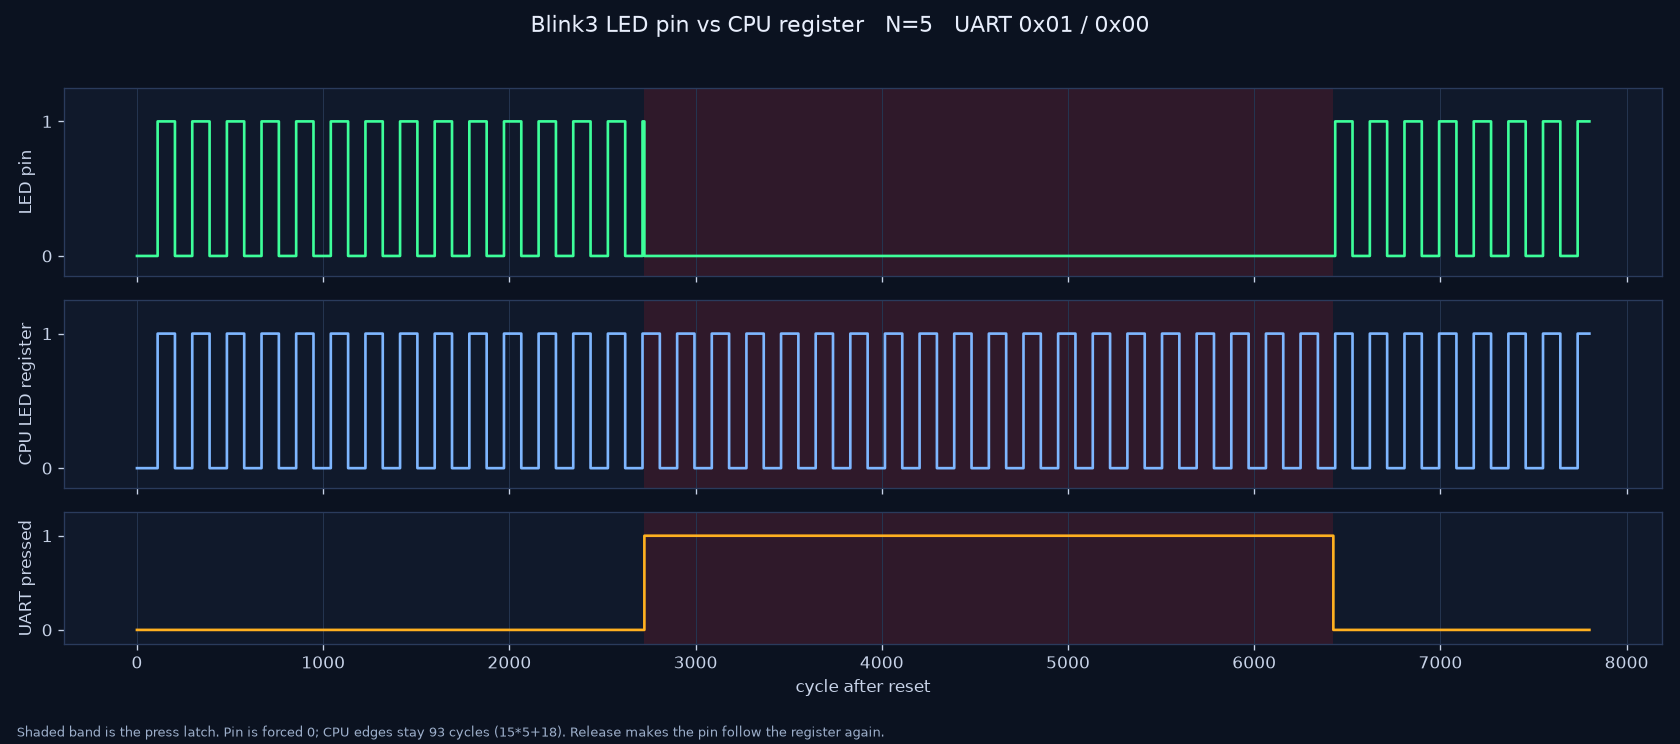
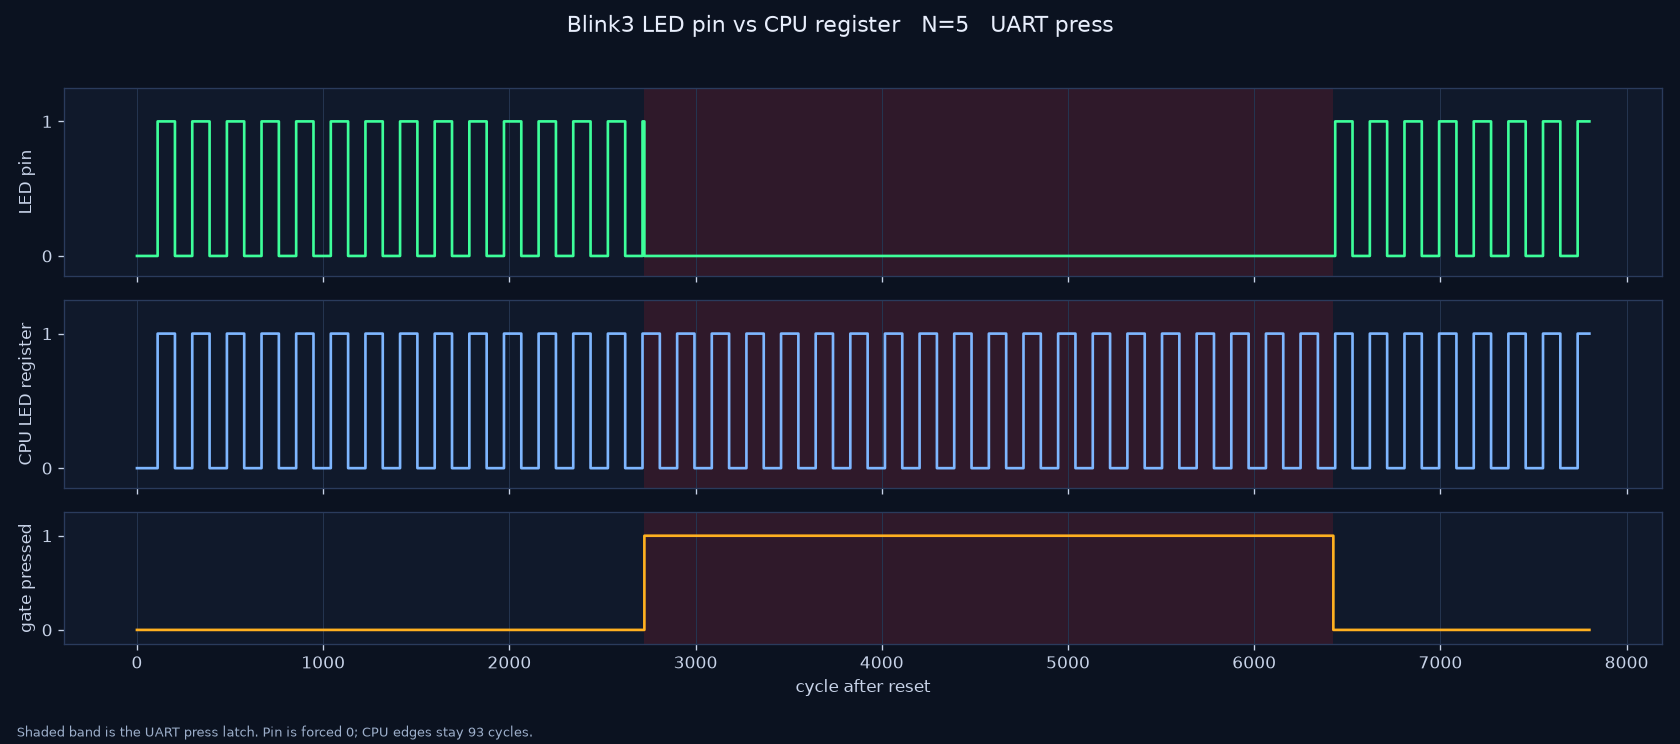
Gate the Nano 4K LED from button S1 as well as a UART press.
S1 is schematic pin 14, active-low. The pin is forced off while it is held
or a press byte is latched, and the CPU keeps running. Verilator covers the
button. The 4K image was SRAM-loaded; the camera was not aimed at the boards.

Changed region(s): [[0.3095, 0.0, 0.681, 0.0618], [0.0929, 0.9583, 0.5262, 1.0], [0.0, 0.711, 0.031, 0.8656]]

diff --git a/sim/tb_blink2.cpp b/sim/tb_blink2.cpp
@@ -54,6 +54,9 @@ struct Options {
   // Press byte is 0x01, release byte is 0x00. Bit time is 27 MHz/115200.
   int uart_press_at = -1;
   int uart_release_at = -1;
+  // Active-low button. -1 = leave released. Down is inclusive, up is exclusive.
+  int btn_down_at = -1;
+  int btn_up_at = -1;
 };
 
 static void usage(const char* argv0) {
@@ -68,7 +71,9 @@ static void usage(const char* argv0) {
           "  --led PATH       LED toggle CSV output\n"
           "  --wave PATH      Per-cycle LED CSV (default sim/out/led_wave.csv)\n"
           "  --uart-press N   At cycle N, send 0x01 (press, force LED pin off)\n"
-          "  --uart-release N At cycle N, send 0x00 (release, pin follows CPU)\n",
+          "  --uart-release N At cycle N, send 0x00 (release, pin follows CPU)\n"
+          "  --btn-down N     Hold the active-low button from cycle N\n"
+          "  --btn-up N       Release the button at cycle N\n",
           argv0);
 }
 
@@ -92,6 +97,8 @@ static Options parse_args(int argc, char** argv) {
     else if (!strcmp(argv[i], "--wave")) o.wave_csv_path = need("--wave");
     else if (!strcmp(argv[i], "--uart-press")) o.uart_press_at = atoi(need("--uart-press"));
     else if (!strcmp(argv[i], "--uart-release")) o.uart_release_at = atoi(need("--uart-release"));
+    else if (!strcmp(argv[i], "--btn-down")) o.btn_down_at = atoi(need("--btn-down"));
+    else if (!strcmp(argv[i], "--btn-up")) o.btn_up_at = atoi(need("--btn-up"));
     else if (!strcmp(argv[i], "-h") || !strcmp(argv[i], "--help")) {
       usage(argv[0]);
       exit(0);
@@ -157,6 +164,7 @@ int main(int argc, char** argv) {
   // Idle-high UART. A stuck-low RX looks like a break to UartRx.
   UartDrive uart;
   top->io_uart_rx = 1;
+  top->io_btn_n = 1;
 
   // Active-high synchronous reset (Chisel default).
   top->reset = 1;
@@ -192,6 +200,13 @@ int main(int argc, char** argv) {
       printf("[UART] cycle=%d send 0x00 (release)\n", cycle);
       uart.start(0x00);
     }
+    const bool btn_held = opt.btn_down_at >= 0 && cycle >= opt.btn_down_at &&
+                          (opt.btn_up_at < 0 || cycle < opt.btn_up_at);
+    top->io_btn_n = btn_held ? 0 : 1;
+    if (opt.btn_down_at >= 0 && cycle == opt.btn_down_at)
+      printf("[BTN] cycle=%d down (active-low)\n", cycle);
+    if (opt.btn_up_at >= 0 && cycle == opt.btn_up_at)
+      printf("[BTN] cycle=%d up\n", cycle);
     uart.on_cycle(top);
     tick();
 

diff --git a/sim/plot_uart_gate.py b/sim/plot_uart_gate.py
@@ -62,7 +62,7 @@ def main() -> int:
     series = (
         (axes[0], pin, "LED pin", "#3dff9a"),
         (axes[1], cpu, "CPU LED register", "#7eb6ff"),
-        (axes[2], pressed, "UART pressed", "#ffb020"),
+        (axes[2], pressed, "gate pressed", "#ffb020"),
     )
     for ax, ys, name, color in series:
         ax.set_facecolor("#10192b")

diff --git a/docs/uart-led-gate/README.md b/docs/uart-led-gate/README.md
@@ -1,12 +1,35 @@
-# UART press gates the Blink3 LED
+# Button or UART press gates the Blink3 LED
 
 The gate sits in the SoC, after the CPU's LED register (`UartLedGate` in
-`CPUMinimalWrapper` and in the Verilator top). A latched press forces the
-pin off. The core keeps fetching, and `ledState` keeps toggling, so a release
-shows the phase the register is already in.
+`CPUMinimalWrapper` and in the Verilator top). While the gate is pressed the
+pin is forced off. The core keeps fetching, and `ledState` keeps toggling, so
+a release shows the phase the register is already in.
 
-This run is Verilator plus synthesis. Neither board was loaded, and no
-serial device was opened.
+Pressed means the Tang Nano 4K button is held **or** a UART press byte is
+latched. Either one is enough. The Primer 20K top ties the button high
+(released) and still uses the UART pins.
+
+## Tang Nano 4K button
+
+Sipeed schematic `Tang_Nano_4K_3603`
+([PDF](https://dl.sipeed.com/fileList/TANG/Nano%204K/HDK/02_Schematic/Tang_Nano_4K_3603_Schematic_.pdf)):
+
+| switch | net | package pin | bank |
+|---|---|---|---|
+| S1 | KEY1 | **14** (`IOB4B`) | VCCO3, 1.8 V |
+| S2 | KEY2 | 15 (`IOB5A`) | VCCO3, 1.8 V |
+
+S1 is the gate. R31 is 100 kΩ from KEY1 up to `DCDC3_1V8`, the switch goes to
+ground, and C52 is 100 nF to ground. Held means low. `tang-nano-4k.cst`
+places `io_btn_n` on pin 14 as LVCMOS18 with pull-up. Two flops synchronise
+it. The pin report for the N=262144 image lists `io_btn_n` at `14/3`,
+`IOB4[B]`, LVCMOS18, pull-up, 1.8 V.
+
+S2 stays the reset input on pin 15 (pull-down, active-high into the CPU).
+Pressing it shorts an already-low net to ground, so it does not gate the LED
+and it does not reset the CPU while that pull-down is on.
+
+![S1 and S2, both active-low to 1.8 V](hardware/tang-nano-4k-buttons.png)
 
 ## Protocol
 
@@ -39,8 +62,23 @@ not loaded.
 ## Verilator, N=5
 
 `tools/run_uart_led_gate.sh` uses maxIterations = 5 so an edge is
-`15*5+18 = 93` cycles and a 2340-cycle UART frame is easy to see. The FPGA
-image is still N=262144.
+`15*5+18 = 93` cycles. The FPGA image is still N=262144. The same script
+runs the UART frame and a button hold. Both checks print `match=yes`.
+
+### Button
+
+S1 is driven low from cycle 400 through 1999 (the testbench flag is
+`--btn-up 2000`, exclusive). The synchroniser raises `pressed` at cycle
+**401** and drops it at cycle **2001**. All 28 CPU edge gaps are 93 cycles,
+including the 17 edges while the pin is forced off. At the release the CPU
+register is already 1, and the pin comes back high on that same cycle, then
+both fall together at 2064.
+
+![Pin forced off while S1 is held; the CPU register keeps blinking](btn_gate_n5.png)
+
+### UART
+
+The button stays released for this run.
 
 Press frame starts at cycle 500 and the latch sets at cycle **2725**, while
 the CPU register is still 1 (it rose at 2715 and would have stayed 1 until
@@ -73,27 +111,27 @@ PORT=8768 tools/run_visualizer.sh
 
 ![Visualizer after release: pin follows the CPU LED](uart_vis_released.png)
 
-## Synthesis
+## Synthesis and the 4K SRAM load
 
-Both builds finished syn+PNR and wrote an SRAM-loadable `.fs`. Nothing was
-programmed.
+The Nano 4K image was rebuilt with the button port and SRAM-loaded. The
+Primer 20K was not rebuilt and not programmed.
 
-| board | part | UART pins from the pin report | bitstream |
+| board | part | pins in the pin report | bitstream |
 |---|---|---|---|
-| Tang Nano 4K | GW1NSR-4C | RX pin 18 (`IOB13[A]`), TX pin 19 (`IOB13[B]`), LED pin 10 | `gowin/impl/pnr/blink3_n262144.fs` |
-| Primer 20K Dock | GW2A-18C | RX **T13**, TX **M11**, both LVCMOS33 | `gowin/primer20k/impl/pnr/blink3_n262144.fs` |
+| Tang Nano 4K | GW1NSR-4C | button pin 14 (`IOB4[B]`, LVCMOS18, pull-up), reset pin 15, LED pin 10, UART RX/TX still 18/19 | `gowin/impl/pnr/blink3_n262144.fs` |
+| Primer 20K Dock | GW2A-18C | previous build: RX **T13**, TX **M11**. Button tied high in the top, not a new bitstream | not reloaded |
 
 ```sh
 tools/gowin_build.sh
-BOARD=primer20k tools/gowin_build.sh
+openFPGALoader --busdev-num 003:081 -b tangnano4k -m gowin/impl/pnr/blink3_n262144.fs
 ```
 
-The `.fs` files are gitignored. Do not pass `-f`.
+The `.fs` files are gitignored. The loader was `-m` only. Log: `write to ram`,
+`Load SRAM 100%`, `CRC check: Success`.
 
-The Nano 4K bitstream above was SRAM-loaded on bus 3 device 81
-(`openFPGALoader --busdev-num 003:081 -b tangnano4k -m`, no `-f`). The
-Primer 20K was not loaded. Webcam `check_all(duration=10)` moved the 4K
-from 0.968 Hz to 3.329 Hz (Blink3 is 3.433 Hz). Three `0x01` / `0x00`
-cycles on `/dev/ttyUSB3` (interface 1 of that same BL702, 115200 8N1)
-left the 4K at 3.32 Hz the whole time. Path, schematic, and stills:
-[`hardware.md`](hardware.md). The 4K was left running this image.
+After that load the Logitech the webcam MCP uses
+(`046d:0991`, `/dev/video2`) is aimed at the monitor light bar, not at the
+boards. `check_all(duration=10)` reported both boards "present but not
+blinking", and the frame has no red LED in it. That call is written up in
+[`hardware.md`](hardware.md). The 4K was left running this SRAM image. The
+button has not been held for a camera measurement yet.

diff --git a/docs/uart-led-gate/hardware.md b/docs/uart-led-gate/hardware.md
@@ -65,4 +65,32 @@ The press windows were the failure: the pin was supposed to go dark for those 10
 
 Clips (not committed, ~3.5 MB each) are under `~/fpga/blink-measure/20261104-213949-check` through `20261104-214232-check`.
 
-The 4K is still running this SRAM image. The last byte on the wire was `0x00`. The LED was blinking at 3.316 Hz at the end of that measurement.
+That image was replaced by the button bitstream below. The last byte on the wire for this UART attempt was `0x00`. The LED was blinking at 3.316 Hz at the end of that measurement.
+
+## Button gate (S1)
+
+The UART attempt above is why the gate now also takes a button. S1 / KEY1 is package pin **14** (`IOB4B`). Schematic 3603 shows R31 = 100 kΩ to `DCDC3_1V8`, the switch to GND, and C52 = 100 nF to GND, so the button is active-low on the 1.8 V bank. S2 / KEY2 stays pin 15 and is still the reset input (`PULL_MODE=DOWN`). The pin report for this image:
+
+```
+io_btn_n    14/3   IOB4[B]   LVCMOS18   UP    1.8
+reset       15/3   IOB5[A]   LVCMOS18   DOWN  1.8
+io_led      10/0   IOT7[A]   LVCMOS33         3.3
+```
+
+The Chisel gate is `pressed = uartLatch || !btnSync`, then `led = cpuLed && !pressed`. The UART receiver is still in the design (a button or a press byte). On the Primer 20K top the button input is tied to `1'b1`. That board was not synthesized again and was not loaded.
+
+SRAM only, same 4K probe, no `-f`:
+
+```sh
+openFPGALoader --busdev-num 003:081 -b tangnano4k -m gowin/impl/pnr/blink3_n262144.fs
+```
+
+IDCODE still `0x100981b`. Log: `write to ram`, `Load SRAM 100%`, `CRC check: Success`. Before the load, both interfaces of bus 3 device 81 were detached in userspace (a `libusb` reset of that device then succeeded). After the load they were attached again. Bus 3 device 78 (the 20K, `3-3.3`) was not opened. Its interface 0 stayed on `ftdi_sio`. Its interface 1 was already unbound before this load and was left that way.
+
+## Camera after the button load
+
+`check_all(duration=10)` at `http://127.0.0.1:8766/mcp` took 13.25 s and returned both boards as "present but not blinking" (`nano4k` and `primer20k` frequency null). The clip is `~/fpga/blink-measure/20261104-223623-check/clip.mkv`. The annotated frame is the monitor light bar. A scan of that frame for red LED pixels (R > 80 and well above G and B) found one pixel. The previous clip that actually saw the boards, `20261104-214232-check`, measured the 4K at 3.316 Hz with the user LED around pixel (344, 243).
+
+The MCP was not modified. A direct grab of `/dev/video2` (Logitech `046d:0991`, the camera `check_all` uses) is the same monitor view. `/dev/video0` is the UGREEN HDMI stick and returned a black frame. The button has not been held for a measurement. The 4K was left running the button SRAM image.
+
+![Webcam after the button load: the frame is the monitor, not the boards](hardware/05-camera-aim-annotated.jpg)
